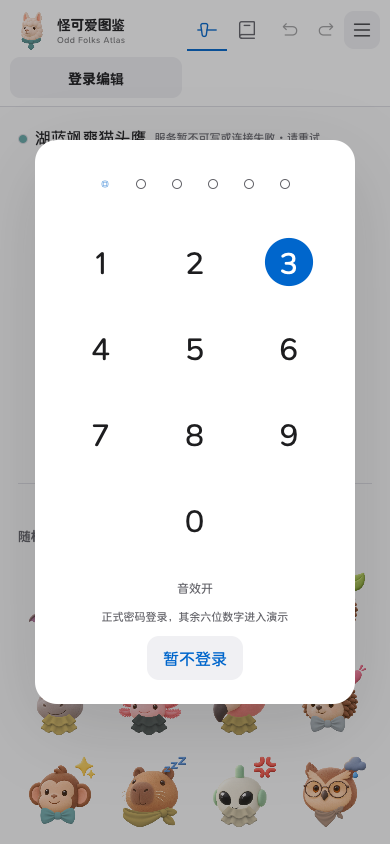
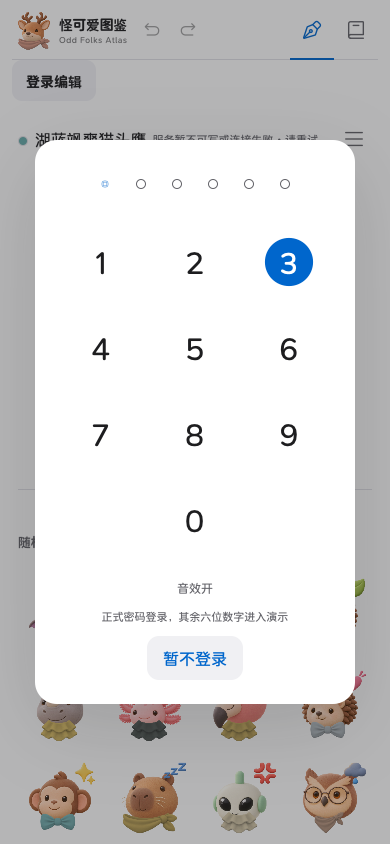
Refine navigation and continuous mobile inspector gestures

diff --git a/dist/editor-compact.js b/dist/editor-compact.js
@@ -45,32 +45,77 @@ function setup(){
  for(const id of ['animal','accessory','mood'])buttonsFor(id,{limit:8});
  for(const id of ['inspectorEmphasis','motionStyle','backgroundEmphasis','previewMode'])buttonsFor(id);
  for(const id of ['motionEvent','backgroundEvent'])buttonsFor(id,{tab:true});
+ // Put animation editing first; source-instance replacement is a secondary choice.
+ const properties=$('layerProperties');properties.prepend(motion);const emphasis=$('inspectorEmphasis').closest('label'),emphasisButtons=body.querySelector('[data-select="inspectorEmphasis"]');motion.prepend(emphasis,emphasisButtons);play.after($('inspectorSyncStatus'),$('inspectorRetry'));
+ for(const [id,label]of [['animal','替换动物'],['accessory','替换配饰'],['mood','替换情绪']])body.querySelector(`[data-select="${id}"] .compact-choice-caption span`).textContent=label;
+ const background=$('backgroundProperties'),backgroundTiming=background.querySelector('.background-timing');background.prepend($('backgroundEmphasis').closest('label'),body.querySelector('[data-select="backgroundEmphasis"]'),$('backgroundEvent').closest('label'),body.querySelector('[data-select="backgroundEvent"]'),$('backgroundEnabled').closest('label'),background.querySelector('.background-play-actions'),backgroundTiming);
+ installPageScrollGuard(panel);
  body.addEventListener('change',()=>queueMicrotask(refresh));document.addEventListener('avatar-layer-change',()=>{body.scrollTop=0;refresh()});
  installSheetGesture(panel,body);const fitStage=()=>{if(panel.open&&matchMedia('(max-width:760px)').matches){const top=$('stageCapture').getBoundingClientRect().top;document.documentElement.style.setProperty('--compact-stage-limit',Math.max(96,panel.getBoundingClientRect().top-top-14)+'px')}};new ResizeObserver(fitStage).observe(panel);window.addEventListener('resize',fitStage);window.AvatarCompactInspector={refresh(){refresh();requestAnimationFrame(fitStage)}};refresh();syncInspectorProperties();
 }
+function installPageScrollGuard(panel){
+ // CSS handles current browsers. This narrowly scoped fallback only consumes an
+ // outward pull at the document top, never ordinary/nested scrolling or the sheet.
+ let point=null;
+ const path=e=>e.composedPath?e.composedPath():[e.target];
+ document.addEventListener('touchstart',e=>{if(e.touches.length!==1||path(e).includes(panel)){point=null;return}point={x:e.touches[0].clientX,y:e.touches[0].clientY};},{passive:true});
+ document.addEventListener('touchmove',e=>{
+  if(!point||e.touches.length!==1||!e.cancelable||path(e).includes(panel))return;
+  const t=e.touches[0],dx=t.clientX-point.x,dy=t.clientY-point.y;point={x:t.clientX,y:t.clientY};
+  if(dy<=0||Math.abs(dx)>Math.abs(dy)||(document.scrollingElement?.scrollTop||0)>0)return;
+  const canScroll=path(e).some(el=>el instanceof Element&&el!==document.body&&el!==document.documentElement&&/auto|scroll/.test(getComputedStyle(el).overflowY)&&el.scrollHeight>el.clientHeight+1&&el.scrollTop>0);
+  if(!canScroll&&!path(e).some(el=>el instanceof Element&&el.matches('input,textarea,select,[contenteditable="true"]')))e.preventDefault();
+ },{passive:false});
+ const clear=()=>{point=null};document.addEventListener('touchend',clear,{passive:true});document.addEventListener('touchcancel',clear,{passive:true});
+}
 function installSheetGesture(panel,body){
- let gesture=null,settle=null,wheelDistance=0,wheelTimer=0,suppressClick=false;
+ let gesture=null,settle=null,momentum=0,wheelDistance=0,wheelTimer=0,suppressClick=false;
  const mobile=()=>matchMedia('(max-width:760px)').matches;
- const reset=()=>{gesture=null;wheelDistance=0;clearTimeout(wheelTimer);settle?.cancel();settle=null;panel.style.transform='';panel.classList.remove('sheet-dragging');};
- function draw(distance){panel.style.transform=`translateY(${distance}px)`;panel.classList.add('sheet-dragging')}
- function finish(distance,cancel=false){panel.classList.remove('sheet-dragging');if(!cancel&&Math.abs(distance)>=64){closeInspector(Math.sign(distance));return}if(!distance)return;if(matchMedia('(prefers-reduced-motion:reduce)').matches){panel.style.transform='';return}settle=panel.animate([{transform:`translateY(${distance}px)`},{transform:'translateY(0)'}],{duration:200,easing:'cubic-bezier(.2,.8,.2,1)'});settle.onfinish=()=>{panel.style.transform='';settle=null}}
- function touchStart(e){if(!mobile()||!panel.open||e.touches.length!==1||e.target.closest('input,select,textarea,[contenteditable="true"]'))return;settle?.cancel();settle=null;panel.style.transform='';const t=e.touches[0];gesture={id:t.identifier,x:t.clientX,y:t.clientY,mode:null,distance:0};}
- function touchMove(e){if(!gesture)return;if(e.touches.length!==1){finish(gesture.distance,true);gesture=null;return}const t=[...e.touches].find(t=>t.identifier===gesture.id);if(!t)return;const dx=t.clientX-gesture.x,dy=t.clientY-gesture.y;
-  if(!gesture.mode&&Math.abs(dx)>Math.abs(dy)&&Math.abs(dx)>7){gesture=null;return}
-  if(!gesture.mode&&Math.abs(dy)<7)return;
-  const max=Math.max(0,body.scrollHeight-body.clientHeight),atTop=body.scrollTop<=1,atBottom=body.scrollTop>=max-1;
-  if(!gesture.mode){gesture.mode=(dy>0&&atTop)||(dy<0&&atBottom)?'sheet':'scroll';if(gesture.mode==='sheet')gesture.y=t.clientY;}
-  if(gesture.mode==='scroll'){
-   const step=t.clientY-gesture.y;if((step>0&&atTop)||(step<0&&atBottom)){gesture.mode='sheet';gesture.y=t.clientY}else{gesture.y=t.clientY;return;}
-  }
-  if(e.cancelable)e.preventDefault();
-  if(gesture.mode==='sheet'){gesture.distance=(t.clientY-gesture.y)*.82;draw(gesture.distance);if(Math.abs(gesture.distance)>8)suppressClick=true;}
+ const stopMomentum=()=>{if(momentum)cancelAnimationFrame(momentum);momentum=0};
+ const reset=()=>{gesture=null;stopMomentum();wheelDistance=0;clearTimeout(wheelTimer);settle?.cancel();settle=null;panel.style.transform='';panel.classList.remove('sheet-dragging');suppressClick=false;};
+ const draw=distance=>{panel.style.transform=`translateY(${distance}px)`;panel.classList.toggle('sheet-dragging',Math.abs(distance)>.1)};
+ function finish(distance,cancel=false){
+  panel.classList.remove('sheet-dragging');if(!cancel&&Math.abs(distance)>=64){closeInspector(Math.sign(distance));return}
+  if(!distance||matchMedia('(prefers-reduced-motion:reduce)').matches){panel.style.transform='';return}
+  const animation=panel.animate([{transform:`translateY(${distance}px)`},{transform:'translateY(0)'}],{duration:200,easing:'cubic-bezier(.2,.8,.2,1)'});settle=animation;animation.onfinish=()=>{if(settle===animation){panel.style.transform='';settle=null}};
  }
- function touchEnd(e,cancel=false){if(!gesture)return;const distance=gesture.distance;gesture=null;finish(distance,cancel);if(suppressClick)setTimeout(()=>{suppressClick=false},350)}
+ function coast(velocity){
+  if(Math.abs(velocity)<.08||matchMedia('(prefers-reduced-motion:reduce)').matches)return;
+  let previous=performance.now();const tick=now=>{const dt=Math.min(32,now-previous);previous=now;velocity*=Math.exp(-dt/220);const max=Math.max(0,body.scrollHeight-body.clientHeight),next=Math.max(0,Math.min(max,body.scrollTop-velocity*dt));body.scrollTop=next;if(!panel.open||next<=0||next>=max||Math.abs(velocity)<.02){momentum=0;return}momentum=requestAnimationFrame(tick)};momentum=requestAnimationFrame(tick);
+ }
+ function touchStart(e){
+  if(!mobile()||!panel.open||inspectorTransition||e.touches.length!==1||e.target.closest('input,select,textarea,[contenteditable="true"]'))return;
+  stopMomentum();clearTimeout(wheelTimer);wheelDistance=0;const current=settle?new DOMMatrixReadOnly(getComputedStyle(panel).transform).m42:0;settle?.cancel();settle=null;draw(current);suppressClick=false;
+  const t=e.touches[0];gesture={id:t.identifier,x:t.clientX,y:t.clientY,lastY:t.clientY,lastTime:performance.now(),vertical:false,distance:current,velocity:0,content:body.contains(e.target)};
+ }
+ function moveContent(delta){
+  // One gesture owner consumes content scrolling first and carries only the
+  // unconsumed finger movement into the sheet. Reversing returns to scrolling.
+  if(gesture.distance&&Math.sign(delta)!==Math.sign(gesture.distance)){
+   const previous=gesture.distance;gesture.distance=previous+delta*.94;
+   if(Math.sign(gesture.distance)===Math.sign(previous)){draw(gesture.distance);return}
+   delta+=previous/.94;gesture.distance=0;
+  }
+  if(!gesture.distance&&gesture.content){const max=Math.max(0,body.scrollHeight-body.clientHeight),before=body.scrollTop;body.scrollTop=Math.max(0,Math.min(max,before-delta));delta-=before-body.scrollTop;}
+  gesture.distance=Math.max(-panel.clientHeight*.85,Math.min(panel.clientHeight*.85,gesture.distance+delta*.94));draw(gesture.distance);
+ }
+ function touchMove(e){
+  if(!gesture)return;if(e.touches.length!==1){finish(gesture.distance,true);gesture=null;return}
+  const t=[...e.touches].find(t=>t.identifier===gesture.id);if(!t)return;const dx=t.clientX-gesture.x,dy=t.clientY-gesture.y;
+  if(!gesture.vertical&&Math.abs(dx)>Math.abs(dy)&&Math.abs(dx)>6){gesture=null;return}
+  if(!gesture.vertical&&Math.abs(dy)<6)return;
+  if(!e.cancelable){finish(gesture.distance,true);gesture=null;return}e.preventDefault();gesture.vertical=true;suppressClick=true;
+  const now=performance.now(),delta=t.clientY-gesture.lastY,dt=Math.max(8,now-gesture.lastTime);gesture.velocity=.35*gesture.velocity+.65*Math.max(-2,Math.min(2,delta/dt));gesture.lastY=t.clientY;gesture.lastTime=now;moveContent(delta);
+ }
+ function touchEnd(e,cancel=false){
+  if(!gesture)return;const current=gesture;gesture=null;finish(current.distance,cancel);
+  if(!cancel&&current.vertical&&!current.distance&&performance.now()-current.lastTime<100)coast(current.velocity);
+  if(cancel)suppressClick=false;else if(suppressClick)setTimeout(()=>{suppressClick=false},350);
+ }
  panel.addEventListener('touchstart',touchStart,{passive:true});panel.addEventListener('touchmove',touchMove,{passive:false});panel.addEventListener('touchend',e=>touchEnd(e),{passive:true});panel.addEventListener('touchcancel',e=>touchEnd(e,true),{passive:true});
- panel.addEventListener('click',e=>{if(suppressClick){e.preventDefault();e.stopImmediatePropagation();suppressClick=false}},{capture:true});
- // Wheel users retain native scrolling. Only continued outward travel at an edge dismisses.
- body.addEventListener('wheel',e=>{if(!mobile()||!panel.open||e.ctrlKey||e.target.closest('input,select,textarea')||Math.abs(e.deltaX)>Math.abs(e.deltaY))return;const max=Math.max(0,body.scrollHeight-body.clientHeight),out=(e.deltaY<0&&body.scrollTop<=1)||(e.deltaY>0&&body.scrollTop>=max-1);if(!out){if(wheelDistance){const previous=wheelDistance;wheelDistance=0;clearTimeout(wheelTimer);finish(previous,true)}return}e.preventDefault();const delta=e.deltaY*(e.deltaMode===1?16:e.deltaMode===2?body.clientHeight:1);wheelDistance+=-delta*.35;wheelDistance=Math.max(-150,Math.min(150,wheelDistance));draw(wheelDistance);clearTimeout(wheelTimer);wheelTimer=setTimeout(()=>{const d=wheelDistance;wheelDistance=0;finish(d)},130)},{passive:false});
+ panel.addEventListener('pointerdown',()=>{suppressClick=false},{capture:true});
+ panel.addEventListener('click',e=>{if(suppressClick&&e.detail!==0){e.preventDefault();e.stopImmediatePropagation();suppressClick=false}},{capture:true});
+ body.addEventListener('wheel',e=>{if(!mobile()||!panel.open||e.ctrlKey||e.target.closest('input,select,textarea')||Math.abs(e.deltaX)>Math.abs(e.deltaY))return;const max=Math.max(0,body.scrollHeight-body.clientHeight),out=(e.deltaY<0&&body.scrollTop<=1)||(e.deltaY>0&&body.scrollTop>=max-1);if(!out){if(wheelDistance){const previous=wheelDistance;wheelDistance=0;clearTimeout(wheelTimer);finish(previous,true)}return}e.preventDefault();stopMomentum();const delta=e.deltaY*(e.deltaMode===1?16:e.deltaMode===2?body.clientHeight:1);wheelDistance=Math.max(-150,Math.min(150,wheelDistance-delta*.35));draw(wheelDistance);clearTimeout(wheelTimer);wheelTimer=setTimeout(()=>{const d=wheelDistance;wheelDistance=0;finish(d)},130)},{passive:false});
  panel.addEventListener('close',reset);window.addEventListener('resize',reset);document.addEventListener('visibilitychange',()=>{if(document.hidden)reset()});
 }
 window.addEventListener('avatar-editor-ready',setup);if(document.readyState==='loading')document.addEventListener('DOMContentLoaded',setup,{once:true});if(typeof editorSetupReady!=='undefined'&&editorSetupReady)setup();

diff --git a/dist/index.html b/dist/index.html
@@ -1,4 +1,4 @@
-<!doctype html><html lang="zh-CN"><head><script src="avatar-demo.js?v=c817ae710e12ef5f7989"></script><meta charset="utf-8"><meta name="viewport" content="width=device-width,initial-scale=1"><meta name="color-scheme" content="light dark"><meta name="description" content="编辑动物头像，调整图层与事件动画，实时预览随机组合。"><title>怪可爱图鉴 · Odd Folks Atlas</title><link rel="stylesheet" href="style.css?v=adb65d598fbdc941cf47"><link rel="stylesheet" href="auth-client.css?v=7e4b09ee6d656f85d376"><link rel="stylesheet" href="editor-theme.css?v=8543278548e2aa4eced9"><link rel="stylesheet" href="mobile-interaction.css?v=610cfdcf7f3e9b22e88b"><link rel="stylesheet" href="editor-inspector.css?v=e8e649e45bd9e6890fc1"><link rel="stylesheet" href="background-editor.css?v=347a3cf4e2120e065c87"><link rel="icon" type="image/png" sizes="128x128" href="brand/avatar-fox-128.png?v=fee54a8afeb9750952a8" data-avatar-favicon="fox"><link rel="apple-touch-icon" sizes="180x180" href="brand/apple-touch-icon.png?v=e778472ddb242b7ccdb1"><link rel="stylesheet" href="avatar-sounds.css?v=9e617bc77da2e93f3e7f"><script src="avatar-brand.js?v=dbc58b1924ef7673fb9c" defer></script><script type="module" src="avatar-sounds.js?v=e47eacd6f02b89b58d42"></script><link rel="stylesheet" href="workspace-shell.css?v=70d7f68181a68477043e"><link rel="preload" as="style" href="catalog-component.css?v=29f05cfbb7f85ae08792" data-catalog-component-style><link rel="stylesheet" href="avatar-brand.css?v=416f6e0dff7b109071d4"><link rel="stylesheet" href="editor-compact.css?v=609d12a50606cc39c3b0"></head><body class="editor-page">
+<!doctype html><html lang="zh-CN"><head><script src="avatar-demo.js?v=c817ae710e12ef5f7989"></script><meta charset="utf-8"><meta name="viewport" content="width=device-width,initial-scale=1"><meta name="color-scheme" content="light dark"><meta name="description" content="编辑动物头像，调整图层与事件动画，实时预览随机组合。"><title>怪可爱图鉴 · Odd Folks Atlas</title><link rel="stylesheet" href="style.css?v=adb65d598fbdc941cf47"><link rel="stylesheet" href="auth-client.css?v=7e4b09ee6d656f85d376"><link rel="stylesheet" href="editor-theme.css?v=8543278548e2aa4eced9"><link rel="stylesheet" href="mobile-interaction.css?v=610cfdcf7f3e9b22e88b"><link rel="stylesheet" href="editor-inspector.css?v=e8e649e45bd9e6890fc1"><link rel="stylesheet" href="background-editor.css?v=347a3cf4e2120e065c87"><link rel="icon" type="image/png" sizes="128x128" href="brand/avatar-fox-128.png?v=fee54a8afeb9750952a8" data-avatar-favicon="fox"><link rel="apple-touch-icon" sizes="180x180" href="brand/apple-touch-icon.png?v=e778472ddb242b7ccdb1"><link rel="stylesheet" href="avatar-sounds.css?v=9e617bc77da2e93f3e7f"><script src="avatar-brand.js?v=dbc58b1924ef7673fb9c" defer></script><script type="module" src="avatar-sounds.js?v=3644385803e467699887"></script><link rel="stylesheet" href="workspace-shell.css?v=70d7f68181a68477043e"><link rel="preload" as="style" href="catalog-component.css?v=29f05cfbb7f85ae08792" data-catalog-component-style><link rel="stylesheet" href="avatar-brand.css?v=416f6e0dff7b109071d4"><link rel="stylesheet" href="editor-compact.css?v=c54d5815f664571dc67d"></head><body class="editor-page">
 <header><h1><span class="avatar-brand-copy"><span>怪可爱图鉴</span><small lang="en">Odd Folks Atlas</small></span></h1><nav aria-label="编辑器操作"><button id="undo" aria-label="撤销 (⌘/Ctrl Z)" title="撤销 (⌘/Ctrl Z)" disabled><svg class="icon" aria-hidden="true" focusable="false" data-iconoir="undo" width="24" height="24" viewBox="0 0 24 24" stroke-width="1.5" fill="none" xmlns="http://www.w3.org/2000/svg">
 <path d="M4.5 8C8.5 8 11 8 15 8C15 8 15 8 15 8C15 8 20 8 20 12.7059C20 18 15 18 15 18C11.5714 18 9.71429 18 6.28571 18" stroke="currentColor" stroke-linecap="round" stroke-linejoin="round"/>
 <path d="M7.5 11.5C6.13317 10.1332 5.36683 9.36683 4 8C5.36683 6.63317 6.13317 5.86683 7.5 4.5" stroke="currentColor" stroke-linecap="round" stroke-linejoin="round"/>
@@ -45,4 +45,4 @@
 </svg><span>播放点击</span></button></div><label>编辑事件<select id="motionEvent"><option value="entrance">入场</option><option value="click">点击反馈</option></select></label><label class="motion-check"><input id="motionEnabled" type="checkbox">启用该事件动画</label><div class="field-grid"><label>动作<select id="motionStyle"><option value="pop">轻弹出现</option><option value="bounce">向上轻跳</option><option value="tilt">摇一摇</option><option value="fade">柔和渐显</option></select></label><label>时长（毫秒）<input id="motionDuration" type="number" min="100" max="1500" step="10"></label><label>图层间隔（毫秒）<input id="motionStagger" type="number" min="0" max="300" step="10"></label><label>动作强度<input id="motionStrength" type="number" min="0" max="2" step="0.1"></label></div><label class="motion-check"><input id="moodEnabled" type="checkbox">事件时显示情绪</label><div class="field-grid"><label>情绪延迟（毫秒）<input id="moodDelay" type="number" min="0" max="1500" step="10"></label><label>停留（毫秒）<input id="moodHold" type="number" min="100" max="3000" step="50"></label><label>进出各时长（毫秒）<input id="moodDuration" type="number" min="100" max="1000" step="10"></label></div><p class="hint">遵循系统减少动态效果设置。下方调位画布会始终显示情绪，方便编辑位置。</p><div class="motion-actions"><button id="exportMotion">导出动画 JSON</button><label class="motion-file">导入 JSON<input id="importMotion" type="file" accept="application/json,.json"></label><button id="resetMotion">恢复默认动画</button></div></section><div id="migrationNotice" class="notice" hidden></div><div class="field-grid"><label>预览范围<select id="previewMode"><option value="all">全部素材</option><option value="active">已启用素材</option></select></label><label>动物<select id="animal"></select></label><label>颈部配饰<select id="accessory"></select></label><label>情绪与描述<select id="mood"></select></label><label hidden>圆润背景<select id="shape"></select></label><label hidden>配色方式<select id="scheme"><option value="contrast">柔和撞色</option><option value="complement">互补配色</option></select></label><label>基础颜色<select id="color"></select></label><label>词序<select id="wordOrder"></select></label></div><div class="tabs" role="tablist" aria-label="选择调整图层"><button data-layer="head" role="tab">动物头</button><button data-layer="accessory" role="tab">配饰</button><button data-layer="mood" role="tab">情绪</button></div><p id="assetLabel"></p><div class="sliders"><label><span>水平位置<input id="xNumber" type="number" min="-1024" max="1024" step="1" aria-label="水平位置像素"></span><input id="x" type="range" min="-1024" max="1024" step="1" aria-label="水平位置"></label><label><span>垂直位置<input id="yNumber" type="number" min="-1024" max="1024" step="1" aria-label="垂直位置像素"></span><input id="y" type="range" min="-1024" max="1024" step="1" aria-label="垂直位置"></label><label><span>大小（%）<input id="scaleNumber" type="number" min="20" max="250" step="1" aria-label="大小百分比"></span><input id="scale" type="range" min="0.2" max="2.5" step="0.01" aria-label="大小"></label><label><span>旋转（°）<input id="rotationNumber" type="number" min="-180" max="180" step="1" aria-label="旋转角度"></span><input id="rotation" type="range" min="-180" max="180" step="1" aria-label="旋转"></label></div><button id="resetAsset" class="text-button">重置当前素材</button><p class="hint">拖动调位，四边缩放，圆点旋转。参数应用于所有组合。</p><div class="uid-controls"><label>预览种子<input id="uid" type="text" maxlength="64" aria-label="预览种子"></label><button id="applyUid">生成</button><button id="download"><svg class="icon" aria-hidden="true" focusable="false" data-iconoir="download" width="24" height="24" stroke-width="1.5" viewBox="0 0 24 24" fill="none" xmlns="http://www.w3.org/2000/svg">
 <path d="M6 20L18 20" stroke="currentColor" stroke-linecap="round" stroke-linejoin="round"/>
 <path d="M12 4V16M12 16L15.5 12.5M12 16L8.5 12.5" stroke="currentColor" stroke-linecap="round" stroke-linejoin="round"/>
-</svg><span>下载 PNG</span></button></div><p class="hint" id="uidLabel"></p><p class="hint" id="storageHint"></p><div class="server-actions"><a hidden id="adminLogin" href="#" target="_blank" rel="noopener">管理员登录</a><button id="connectAdmin">重新连接</button><button id="reloadServer">读取服务端版本</button></div></div></dialog><div id="toast" role="status"></div><script src="avatar-identity-v3.js?v=d8453e7b098797976c1a"></script><script src="avatar-character-candidates.js?v=983aedf6244adcefed4c"></script><script src="avatar-editor-manifest.js?v=6fdd211c211fb8936f1c"></script><script src="avatar-recipes-v3.js?v=ac1bee8e8fd8da919e87"></script><script src="model.js?v=f995994aa0919a21496d"></script><script src="avatar-background.js?v=1c907769dc1aa8b90bcb"></script><script src="avatar-motion.js?v=36a4c6bdce96ab955f41"></script><script src="editor-inspector.js?v=a29802edf79277217fc6"></script><script src="avatar-calibration-priority.js?v=2e860a70eb3b81ecf793"></script><script src="app.js?v=05808258f7967ec05372"></script><script src="background-editor.js?v=8aa02ffe345b1d0ab3d1"></script><script src="workspace-resize.js?v=6721779baf5439050de9"></script><script src="workspace-shell.js?v=8ce88bc42b07381575b7"></script><script src="auth-client.js?v=6459b19f95c675307e9f"></script><script src="editor-compact.js?v=3c1ca8dcb3526bf9bf72"></script></body></html>
+</svg><span>下载 PNG</span></button></div><p class="hint" id="uidLabel"></p><p class="hint" id="storageHint"></p><div class="server-actions"><a hidden id="adminLogin" href="#" target="_blank" rel="noopener">管理员登录</a><button id="connectAdmin">重新连接</button><button id="reloadServer">读取服务端版本</button></div></div></dialog><div id="toast" role="status"></div><script src="avatar-identity-v3.js?v=d8453e7b098797976c1a"></script><script src="avatar-character-candidates.js?v=983aedf6244adcefed4c"></script><script src="avatar-editor-manifest.js?v=6fdd211c211fb8936f1c"></script><script src="avatar-recipes-v3.js?v=ac1bee8e8fd8da919e87"></script><script src="model.js?v=f995994aa0919a21496d"></script><script src="avatar-background.js?v=1c907769dc1aa8b90bcb"></script><script src="avatar-motion.js?v=36a4c6bdce96ab955f41"></script><script src="editor-inspector.js?v=a29802edf79277217fc6"></script><script src="avatar-calibration-priority.js?v=2e860a70eb3b81ecf793"></script><script src="app.js?v=05808258f7967ec05372"></script><script src="background-editor.js?v=8aa02ffe345b1d0ab3d1"></script><script src="workspace-resize.js?v=6721779baf5439050de9"></script><script src="workspace-shell.js?v=d26c24611693c0f62934"></script><script src="auth-client.js?v=6459b19f95c675307e9f"></script><script src="editor-compact.js?v=61bd0b6cc2b66249d42f"></script></body></html>

diff --git a/dist/editor-compact.css b/dist/editor-compact.css
@@ -65,14 +65,31 @@ body.workspace-shell .workspace-main-tabs button[aria-selected=true]{color:var(-
 @media(max-width:760px) and (max-height:660px){body.editor-page #materialPanel.compact-inspector{height:max(200px,calc(100dvh - 330px));max-height:max(200px,calc(100dvh - 330px))}}
 body.workspace-shell[data-focus-input=pointer] #materialPanel button:focus{outline:none}
 
-/* Both workspace switches stay in the top bar, with full accessible names. */
-body.workspace-shell>header,body.workspace-shell>header.avatar-auth-header{grid-template-columns:minmax(0,1fr) auto auto;gap:12px;min-height:64px;padding:10px 20px}
-body.workspace-shell>header h1,body.workspace-shell>header.avatar-auth-header h1{grid-column:1;grid-row:1;min-width:0}
-body.workspace-shell>header .workspace-main-tabs{grid-column:2;grid-row:1;width:auto;max-width:none;gap:4px;border:0;justify-self:end}
-body.workspace-shell>header .workspace-main-tabs button{display:grid;place-items:center;flex:none;width:42px;min-height:42px;padding:9px 8px 7px;position:relative;border-bottom:2px solid transparent}
-body.workspace-shell>header .workspace-main-tabs button[aria-selected=true]{border-bottom-color:var(--accent)}
-body.workspace-shell>header .workspace-main-tabs button:hover{background:var(--soft)}
+/* A transparent toolbar: history at left, page navigation pinned to the right. */
+html,body{overscroll-behavior-y:none}
+body.workspace-shell>header,body.workspace-shell>header.avatar-auth-header{display:block;min-height:0;padding:0 20px;border:0;background:transparent}
+.workspace-topbar{position:relative;display:grid;grid-template-columns:auto auto minmax(0,1fr);align-items:center;column-gap:12px;min-height:64px}
+.workspace-topbar::after{content:'';position:absolute;left:0;right:0;bottom:0;height:1px;background:var(--line);pointer-events:none}
+body.workspace-shell>header h1,body.workspace-shell>header.avatar-auth-header h1{grid-column:1;grid-row:1;min-width:0;background:transparent}
+body.workspace-shell>header .workspace-main-tabs{grid-column:3;grid-row:1;align-self:stretch;justify-self:end;width:auto;max-width:none;gap:4px;border:0;background:transparent}
+body.workspace-shell>header .workspace-main-tabs button{display:grid;place-items:center;flex:none;width:44px;min-height:44px;height:100%;padding:8px;position:relative;border:0;background:transparent;box-shadow:none;border-radius:0}
+body.workspace-shell>header .workspace-main-tabs button::after{content:'';position:absolute;bottom:0;left:0;right:0;height:2px;background:transparent;z-index:1}
+body.workspace-shell>header .workspace-main-tabs button[aria-selected=true]{border:0;background:transparent;color:var(--accent)}
+body.workspace-shell>header .workspace-main-tabs button[aria-selected=true]::after{background:var(--accent)}
+body.workspace-shell>header .workspace-main-tabs button:hover{background:transparent;color:var(--accent)}
 .workspace-tab-icon{width:22px;height:22px;display:block;background:currentColor;-webkit-mask:var(--workspace-tab-icon) center/contain no-repeat;mask:var(--workspace-tab-icon) center/contain no-repeat}
-body.workspace-shell>header nav,body.workspace-shell>header.avatar-auth-header nav{grid-column:3;grid-row:1;width:auto;gap:3px;justify-self:end}
-@media(max-width:650px){body.workspace-shell>header,body.workspace-shell>header.avatar-auth-header{padding:8px 10px;gap:5px;min-height:60px}body.workspace-shell>header .workspace-main-tabs{gap:0}body.workspace-shell>header .workspace-main-tabs button{width:40px;min-height:42px;padding-inline:8px}body.workspace-shell>header nav,body.workspace-shell>header.avatar-auth-header nav{gap:0}}
-@media(max-width:360px){body.workspace-shell>header .avatar-brand-copy small{display:none}body.workspace-shell>header h1{font-size:12px}}
+body.workspace-shell>header nav,body.workspace-shell>header.avatar-auth-header nav{grid-column:2;grid-row:1;width:auto;gap:0;margin:0;justify-self:start;background:transparent}
+body.workspace-shell>header nav button{min-height:44px;width:40px;margin:0;padding:8px;background:transparent}
+body.workspace-shell>header #redo{margin:0}
+body.workspace-shell>header .avatar-brand-random:hover{background:transparent}
+body.workspace-shell>header .avatar-demo-notice{margin:8px 0}
+.avatar-caption{background:transparent;gap:8px;padding-bottom:8px;min-height:44px}
+.avatar-caption #panelToggle{display:inline-flex;flex:none;width:40px;min-height:40px;margin:0 0 0 auto;padding:8px;border:0;border-radius:8px;background:transparent;color:var(--muted);box-shadow:none}
+.avatar-caption #panelToggle:hover,.avatar-caption #panelToggle[aria-expanded=true]{background:transparent;color:var(--accent)}
+.avatar-caption #panelToggle span{display:none}
+.avatar-caption #panelToggle .icon{width:22px;height:22px}
+#materialPanel.compact-inspector #motionSection{margin-top:4px}
+#materialPanel.compact-inspector [data-select="animal"],#materialPanel.compact-inspector [data-select="accessory"],#materialPanel.compact-inspector [data-select="mood"]{margin-top:14px;padding-top:8px;border-top:1px solid var(--line)}
+@media(max-width:650px){body.workspace-shell>header,body.workspace-shell>header.avatar-auth-header{padding:0 12px}.workspace-topbar{column-gap:6px;min-height:60px}body.workspace-shell>header .workspace-main-tabs{gap:0}body.workspace-shell>header .workspace-main-tabs button{width:44px;min-height:44px}body.workspace-shell>header nav,body.workspace-shell>header.avatar-auth-header nav{gap:0}body.workspace-shell>header nav button{width:36px;min-height:44px}.avatar-caption{gap:6px}.avatar-caption #panelToggle{width:36px;min-height:40px;padding:7px}}
+@media(max-width:360px){body.workspace-shell>header .avatar-brand-copy small{display:block}body.workspace-shell>header h1{font-size:12px}.workspace-topbar{column-gap:4px}.avatar-caption{gap:5px}.avatar-caption #panelToggle{width:32px;padding:5px}}
+@media(min-width:761px) and (max-width:900px){body.editor-page #materialPanel.compact-inspector{width:320px;flex-basis:320px}}

diff --git a/dist/catalog.html b/dist/catalog.html
@@ -1,4 +1,4 @@
-<!doctype html><html lang="zh-CN"><head><script src="avatar-demo.js?v=c817ae710e12ef5f7989"></script><meta charset="utf-8"><meta name="viewport" content="width=device-width,initial-scale=1"><meta name="color-scheme" content="light dark"><title>资源对照表 · 头像编辑器</title><link rel="stylesheet" href="catalog.css?v=6148eb9c1b9d39f9cb02"><script src="auth-client.js?v=6459b19f95c675307e9f" defer></script><script src="catalog-editor.js?v=4f07b834c16bf0fbd565" defer></script><link rel="stylesheet" href="editor-theme.css?v=8543278548e2aa4eced9"><link rel="stylesheet" href="auth-client.css?v=7e4b09ee6d656f85d376"><link rel="stylesheet" href="mobile-interaction.css?v=610cfdcf7f3e9b22e88b"><link rel="icon" type="image/png" sizes="128x128" href="brand/avatar-fox-128.png?v=fee54a8afeb9750952a8" data-avatar-favicon="fox"><link rel="apple-touch-icon" sizes="180x180" href="brand/apple-touch-icon.png?v=e778472ddb242b7ccdb1"><script src="avatar-brand.js?v=dbc58b1924ef7673fb9c" defer></script><link rel="stylesheet" href="workspace-embed.css?v=d7f5de66d4718e4f6957"><script src="workspace-embed.js?v=4f93659d7192611ea619"></script><link rel="stylesheet" href="avatar-sounds.css?v=9e617bc77da2e93f3e7f"><script type="module" src="avatar-sounds.js?v=e47eacd6f02b89b58d42"></script></head><body><main><header><a class="back" href="/"><svg class="icon" aria-hidden="true" focusable="false" data-iconoir="arrow-left" width="24" height="24" viewBox="0 0 24 24" stroke-width="1.5" fill="none" xmlns="http://www.w3.org/2000/svg">
+<!doctype html><html lang="zh-CN"><head><script src="avatar-demo.js?v=c817ae710e12ef5f7989"></script><meta charset="utf-8"><meta name="viewport" content="width=device-width,initial-scale=1"><meta name="color-scheme" content="light dark"><title>资源对照表 · 头像编辑器</title><link rel="stylesheet" href="catalog.css?v=6148eb9c1b9d39f9cb02"><script src="auth-client.js?v=6459b19f95c675307e9f" defer></script><script src="catalog-editor.js?v=4f07b834c16bf0fbd565" defer></script><link rel="stylesheet" href="editor-theme.css?v=8543278548e2aa4eced9"><link rel="stylesheet" href="auth-client.css?v=7e4b09ee6d656f85d376"><link rel="stylesheet" href="mobile-interaction.css?v=610cfdcf7f3e9b22e88b"><link rel="icon" type="image/png" sizes="128x128" href="brand/avatar-fox-128.png?v=fee54a8afeb9750952a8" data-avatar-favicon="fox"><link rel="apple-touch-icon" sizes="180x180" href="brand/apple-touch-icon.png?v=e778472ddb242b7ccdb1"><script src="avatar-brand.js?v=dbc58b1924ef7673fb9c" defer></script><link rel="stylesheet" href="workspace-embed.css?v=d7f5de66d4718e4f6957"><script src="workspace-embed.js?v=4f93659d7192611ea619"></script><link rel="stylesheet" href="avatar-sounds.css?v=9e617bc77da2e93f3e7f"><script type="module" src="avatar-sounds.js?v=3644385803e467699887"></script></head><body><main><header><a class="back" href="/"><svg class="icon" aria-hidden="true" focusable="false" data-iconoir="arrow-left" width="24" height="24" viewBox="0 0 24 24" stroke-width="1.5" fill="none" xmlns="http://www.w3.org/2000/svg">
 <path d="M21 12L3 12M3 12L11.5 3.5M3 12L11.5 20.5" stroke="currentColor" stroke-linecap="round" stroke-linejoin="round"/>
 </svg>返回头像编辑器</a><div class="heading"><div><h1>资源对照表</h1><p>词条、资源与组合，一张表看清。</p></div><button id="upload-guide" disabled aria-describedby="upload-note"><svg class="icon" aria-hidden="true" focusable="false" data-iconoir="plus" width="24" height="24" stroke-width="1.5" viewBox="0 0 24 24" fill="none" xmlns="http://www.w3.org/2000/svg">
 <path d="M6 12H12M18 12H12M12 12V6M12 12V18" stroke="currentColor" stroke-linecap="round" stroke-linejoin="round"/>

diff --git a/dist/workspace-shell.js b/dist/workspace-shell.js
@@ -10,8 +10,8 @@ function setup(){
  if(!header||!editor)return;
  body.classList.add('workspace-shell');editor.id='workspaceEditorView';editor.setAttribute('role','tabpanel');editor.setAttribute('aria-labelledby','workspaceEditorTab');
  const tabs=document.createElement('div');tabs.id='workspaceMainTabs';tabs.className='workspace-main-tabs';tabs.setAttribute('role','tablist');tabs.setAttribute('aria-label','头像工作区');
- for(const [id,label,panel]of [['editor','头像编辑器','workspaceEditorView'],['resources','资源对照表','workspaceResourcesView']]){const b=document.createElement('button');b.id=id==='editor'?'workspaceEditorTab':'workspaceResourcesTab';b.type='button';b.dataset.workspaceTab=id;b.setAttribute('role','tab');b.setAttribute('aria-controls',panel);b.setAttribute('aria-label',label);b.title=label;const icon=document.createElement('span');icon.className='workspace-tab-icon';icon.setAttribute('aria-hidden','true');icon.style.setProperty('--workspace-tab-icon',`url(icons/${id==='editor'?'control-slider':'book'}.svg)`);const name=document.createElement('span');name.className='sr-only';name.textContent=label;b.append(icon,name);b.onclick=()=>switchView(id,{history:true});tabs.append(b);tabButtons.push(b)}
- header.insertBefore(tabs,nav);nav.querySelector('.catalog-entry')?.remove();document.getElementById('motionOpen').hidden=true;
+ for(const [id,label,panel]of [['editor','头像编辑器','workspaceEditorView'],['resources','资源对照表','workspaceResourcesView']]){const b=document.createElement('button');b.id=id==='editor'?'workspaceEditorTab':'workspaceResourcesTab';b.type='button';b.dataset.workspaceTab=id;b.setAttribute('role','tab');b.setAttribute('aria-controls',panel);b.setAttribute('aria-label',label);b.title=label;const icon=document.createElement('span');icon.className='workspace-tab-icon';icon.setAttribute('aria-hidden','true');icon.style.setProperty('--workspace-tab-icon',`url(icons/${id==='editor'?'design-nib':'book'}.svg)`);const name=document.createElement('span');name.className='sr-only';name.textContent=label;b.append(icon,name);b.onclick=()=>switchView(id,{history:true});tabs.append(b);tabButtons.push(b)}
+ const topbar=document.createElement('div');topbar.className='workspace-topbar';topbar.append(header.querySelector('h1'),nav,tabs);header.prepend(topbar);nav.querySelector('.catalog-entry')?.remove();document.getElementById('motionOpen').hidden=true;const menu=document.getElementById('panelToggle');document.querySelector('.avatar-caption').append(menu);menu.title='编辑图层与动画';
  const resources=document.createElement('section');resources.id='workspaceResourcesView';resources.className='workspace-resources-view';resources.hidden=true;resources.setAttribute('role','tabpanel');resources.setAttribute('aria-labelledby','workspaceResourcesTab');
  const loading=document.createElement('p');loading.className='workspace-resource-status';loading.id='workspaceResourceStatus';loading.textContent='正在打开资源对照表…';loading.setAttribute('role','status');resources.append(loading);editor.after(resources);
  const heading=document.querySelector('.gallery-heading'),shuffle=document.getElementById('batchButton');heading.append(shuffle);shuffle.querySelector('span').textContent='换一组';shuffle.setAttribute('aria-label','换一组随机头像');

diff --git a/dist/avatar-sounds.js b/dist/avatar-sounds.js
@@ -67,7 +67,8 @@ function mountControls(host = document.getElementById('avatarSoundControls')) {
     const nav = document.querySelector('body.editor-page > header nav');
     if (!nav) return;
     host = document.createElement('div'); host.id = 'avatarSoundControls';
-    nav.insertBefore(host, document.getElementById('panelToggle'));
+    const menu = document.getElementById('panelToggle');
+    nav.insertBefore(host, menu?.parentElement === nav ? menu : null);
   }
   if (host.querySelector('.avatar-sound-settings')) return;
   const detail = document.createElement('details');

diff --git a/README.md b/README.md
@@ -34,7 +34,7 @@
 - **探索组合**：随机生成一组头像、预览种子和中文名称、下载 PNG。
 - **让头像动起来**：配置入场、点击、情绪强调与背景动效；尊重浏览器的减少动态效果设置。
 - **整理素材**：资源对照表、颜色和名称、组合规则、受校验的 PNG 上传。上传先进入待校准状态，不会自动加入可用组合。
-- **紧凑编辑面板**：图层和常用选项直接点选，动画在主头像中预览。手机面板滚动到边缘后继续滑动可收起；关闭按钮与 Escape 同样可用，数字参数保留在更多设置中。
+- **紧凑编辑面板**：名称行右侧打开编辑菜单，动画选项排在素材替换之前，并直接在主头像中预览。手机面板滚动到边缘后继续滑动可收起，反向滑动可回到内容滚动；关闭按钮与 Escape 同样可用，数字参数保留在更多设置中。顶部左侧撤销/重做，右侧切换编辑器和资源表。
 - **放心试一试**：打开自己实例的 `/?demo=1`，复制当前公开配置到本页内存。调位、名称、配色和规则修改都不上传、不保存，刷新或离开即丢弃。配置了登录的实例会在服务器确认六位密码不匹配后进入此演示；正确密码仍正常登录，限速锁定与网络故障不会被当成成功。
 - **一个小彩蛋**：左上角头像每次访问随机，点击或按 Enter / Space 换一个小伙伴并播放入场效果。favicon 跟随生成静态 PNG，不逐帧刷新。不同浏览器对标签栏图标更新的时机可能不同。
 

diff --git a/dist/icons/SOURCE.md b/dist/icons/SOURCE.md
@@ -2,3 +2,6 @@ Iconoir 7.12.2, official regular SVGs, MIT.
 Source: https://www.npmjs.com/package/iconoir/v/7.12.2
 Upstream: https://github.com/iconoir-icons/iconoir
 Assets are unmodified; CSS controls their displayed size.
+
+`design-nib.svg`: package/icons/regular/design-nib.svg from https://registry.npmjs.org/iconoir/-/iconoir-7.12.2.tgz (unchanged).
+SHA-256: c49ce3db06244aad2686c959de12481c1aefc03dfdd20961ce90717717011d3f
